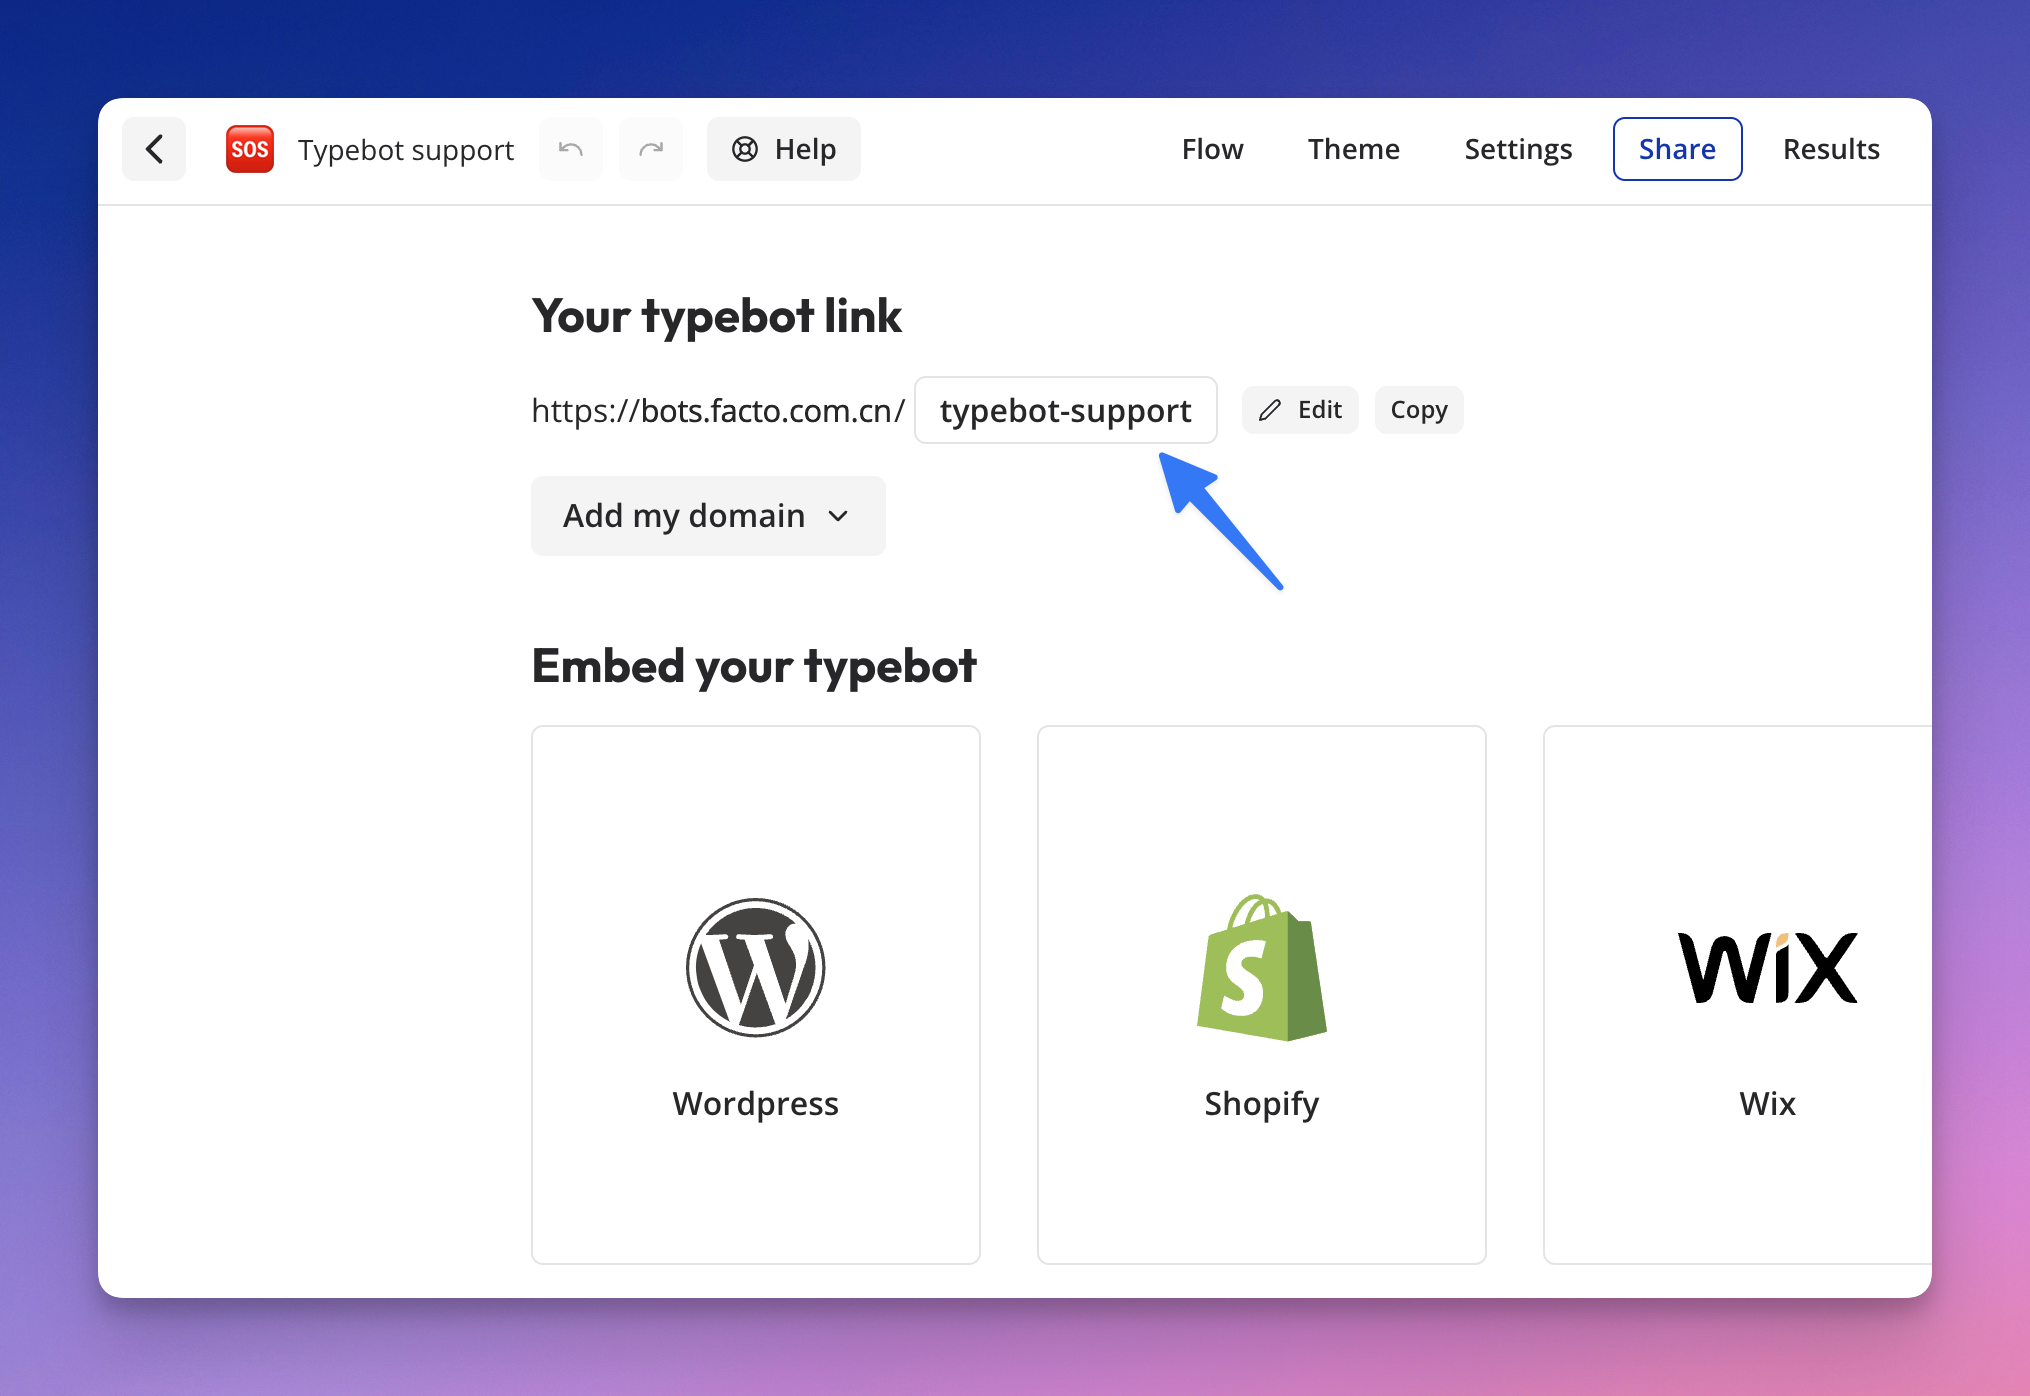
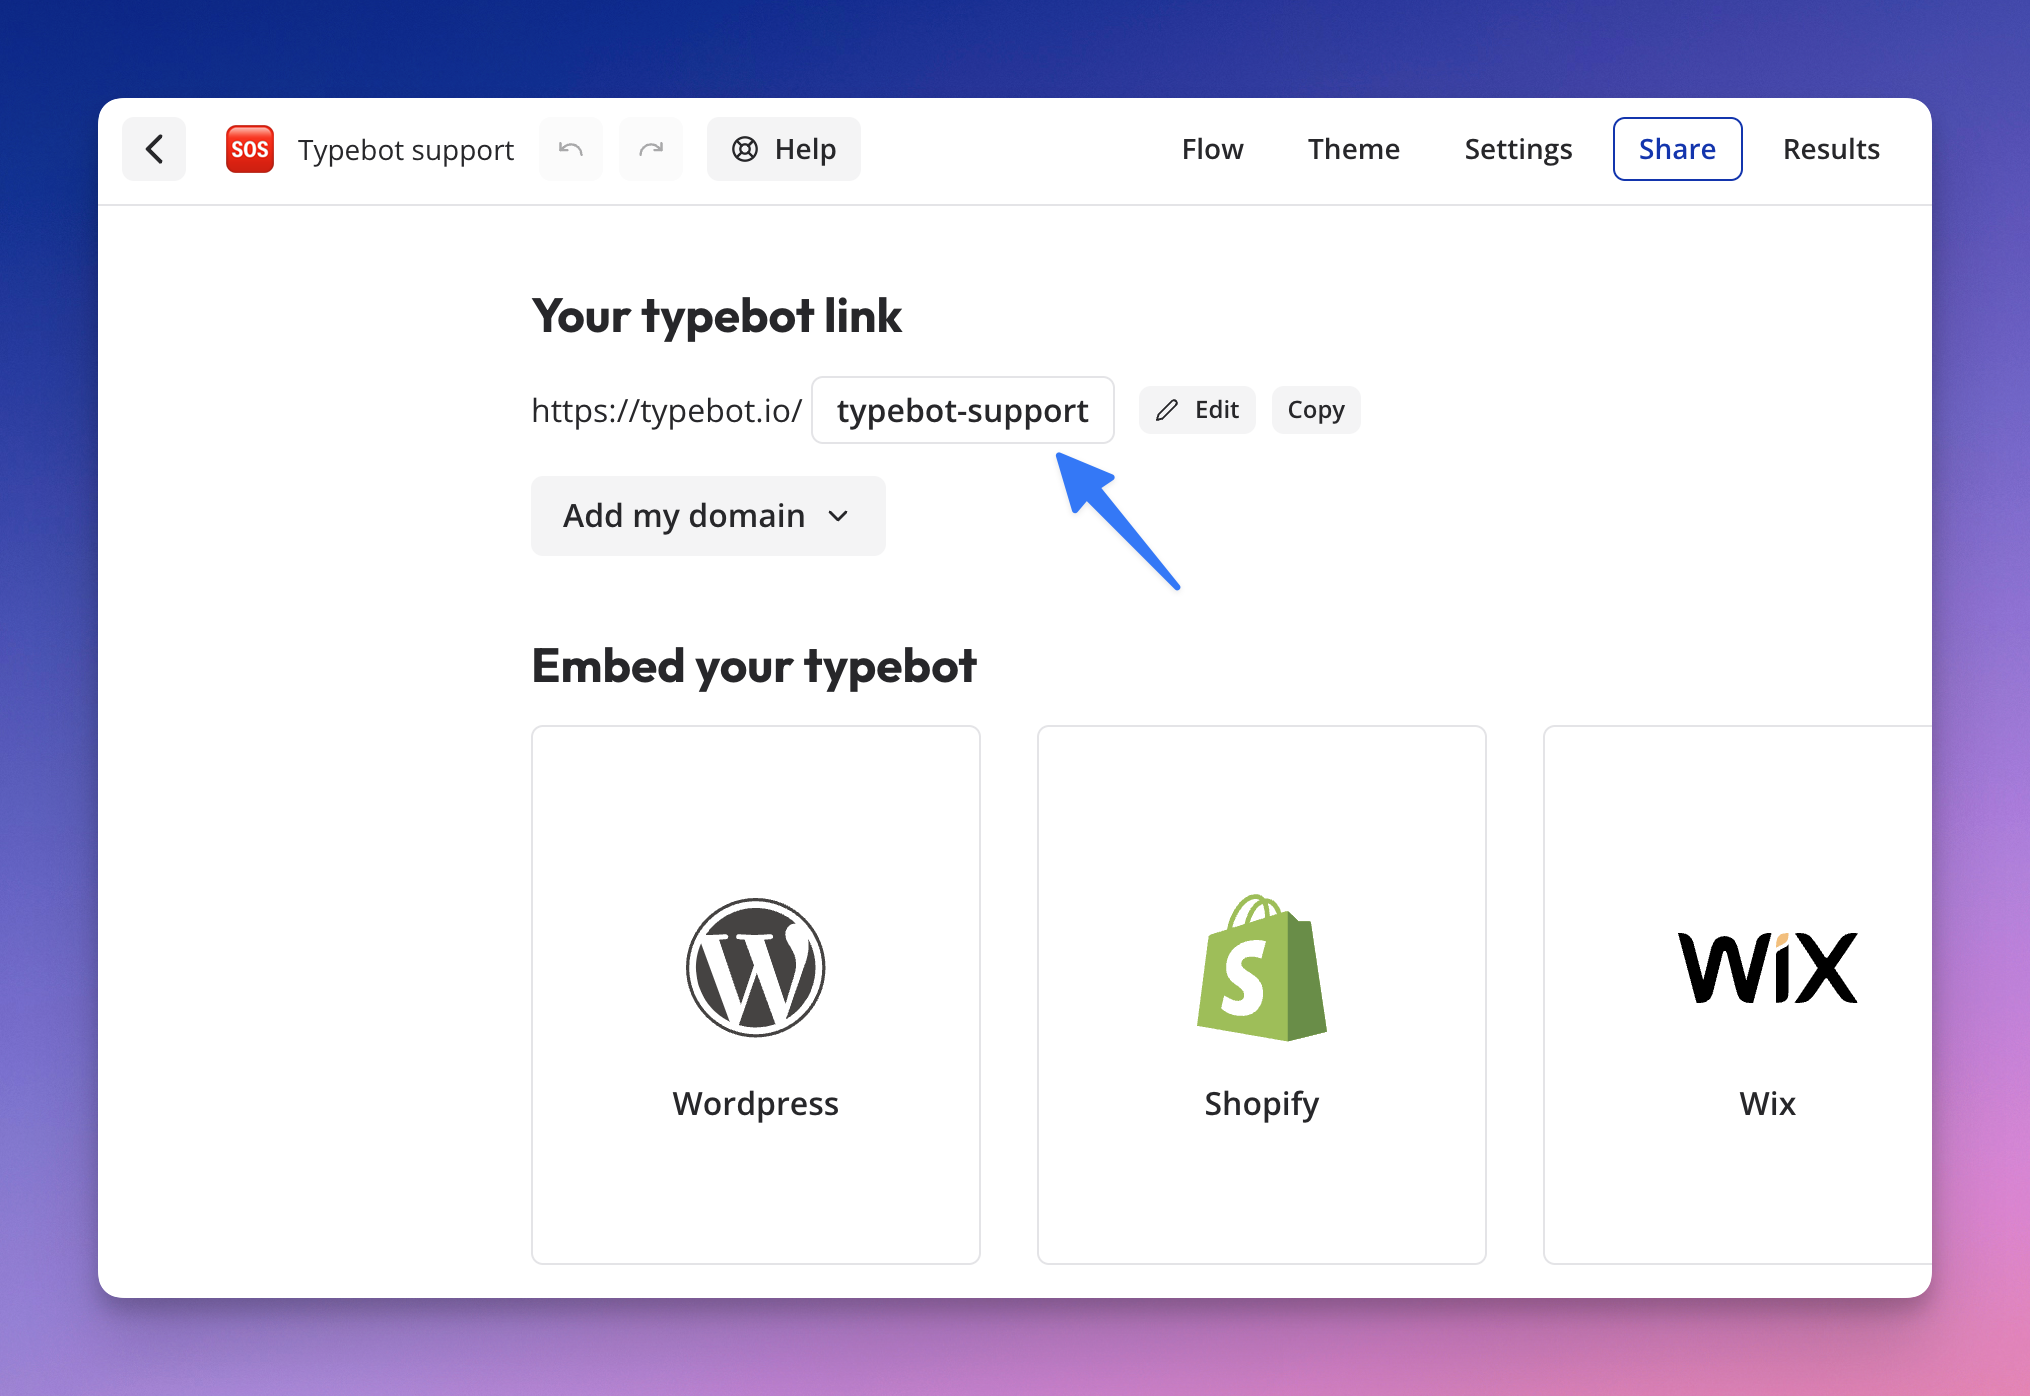
docs

Changed region(s): [[0.3103, 0.2772, 0.6517, 0.4312], [0.6828, 0.2772, 0.7138, 0.308], [0.6207, 0.4004, 0.6517, 0.4312]]

diff --git a/apps/viewer/src/components/ErrorPage.tsx b/apps/viewer/src/components/ErrorPage.tsx
@@ -20,8 +20,8 @@ export const ErrorPage = ({ error }: { error: Error }) => {
           </h1>
           <h2>
             Make sure to configure the app properly (
-            <a href="https://docs.typebot.io/self-hosting/configuration">
-              https://docs.typebot.io/self-hosting/configuration
+            <a href="https://docs.facto.com.cn/self-hosting/configuration">
+              https://docs.facto.com.cn/self-hosting/configuration
             </a>
             )
           </h2>
